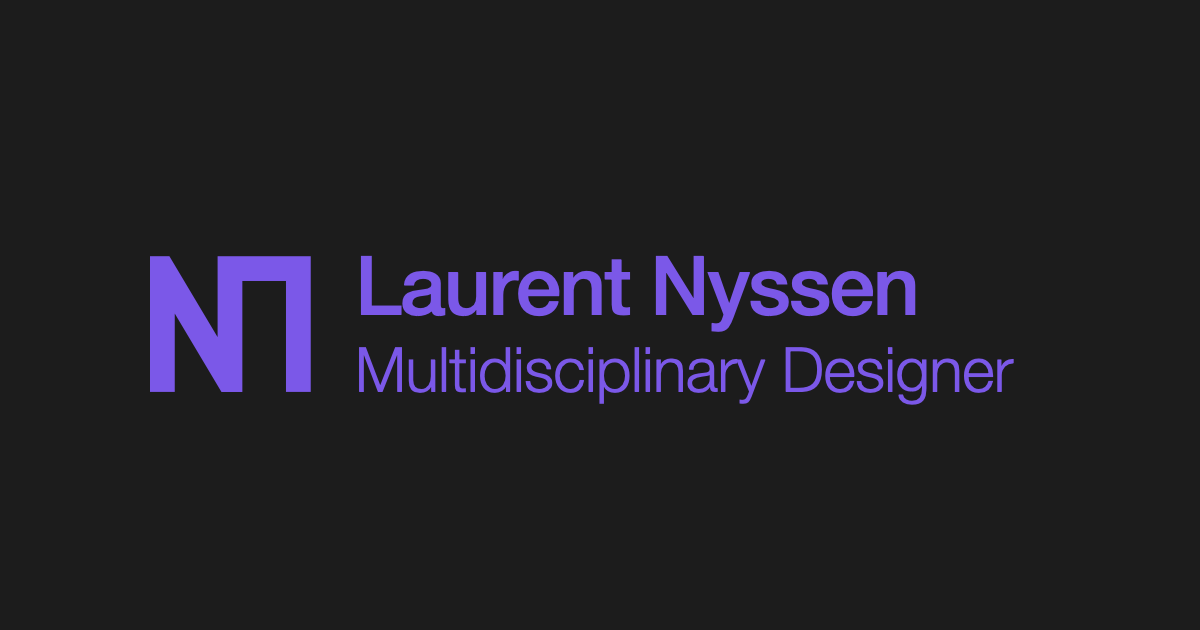
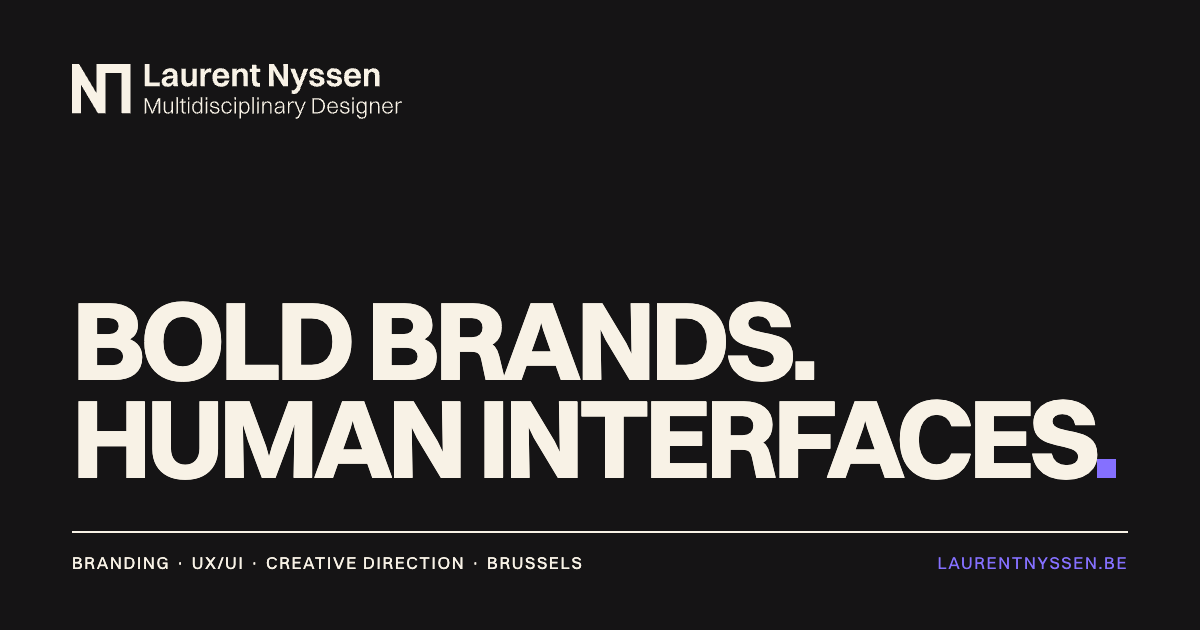
Open Graph : nouvelle image de partage
Noir mat, ivoire et violet, logo, « Bold brands. Human interfaces. »,
services et adresse. Source dans docs/og/og.html ; ?v=2 pour que les
réseaux relisent l'image.

diff --git a/docs/og/og.html b/docs/og/og.html
@@ -1,0 +1,83 @@
+<!DOCTYPE html>
+<html lang="en">
+<head>
+<meta charset="utf-8">
+<title>Open Graph — laurentnyssen.be</title>
+<!-- Source de public/og.png (1200 × 630). Régénérer depuis la racine du projet :
+  "/Applications/Google Chrome.app/Contents/MacOS/Google Chrome" --headless=new \
+    --hide-scrollbars --window-size=1200,630 --virtual-time-budget=4000 \
+    --screenshot=public/og.png docs/og/og.html -->
+<style>
+  @font-face { font-family: "Switzer"; src: url("../../public/fonts/switzer-variable.woff2") format("woff2"); font-weight: 100 900; }
+  * { box-sizing: border-box; margin: 0; padding: 0; }
+  html, body { width: 1200px; height: 630px; overflow: hidden; background: #151415; }
+  body { font-family: Switzer, "Helvetica Neue", Arial, sans-serif; color: #f8f2e6;
+    padding: 64px 72px 56px; display: flex; flex-direction: column; }
+  .logo { width: 330px; height: auto; color: #f8f2e6; }
+  h1 { margin-top: auto; font-size: 112px; line-height: 0.88; letter-spacing: -0.045em;
+    font-weight: 700; text-transform: uppercase; }
+  .point { display: inline-block; width: 0.17em; height: 0.17em; background: #8570ff; margin-left: 0.02em; }
+  .pied { margin-top: 44px; border-top: 2px solid #f8f2e6; padding-top: 18px; display: flex;
+    justify-content: space-between; font-size: 17px; letter-spacing: 0.1em; text-transform: uppercase; }
+  .pied span:last-child { color: #8570ff; }
+</style>
+</head>
+<body>
+  <svg
+  xmlns="http://www.w3.org/2000/svg"
+  viewBox="0 0 961.71 159.6"
+  fill="currentColor"
+  role="img"
+  aria-label="Laurent Nyssen, Multidisciplinary Designer"
+  class="logo"
+>
+  <g>
+    <g>
+      <polygon class="logo-mark" points="75.71 143.85 97.84 143.85 97.84 26.25 144.06 26.25 144.06 143.76 170.28 143.76 170.28 .02 71.61 .02 71.61 85.71 20.55 0 0 0 0 143.76 26.23 143.76 26.23 60.77 75.71 143.85"/>
+      <g>
+        <path d="M212.22,65.01V0h13.39v65.01h-13.39ZM221.97,65.01v-10.8h33.46v10.8h-33.46Z"/>
+        <path d="M296.54,33.75v7.84c-4.59,0-8.35.22-11.28.67-2.93.45-5.21,1.1-6.84,1.96-1.63.86-2.77,1.86-3.44,3.01-.67,1.15-1,2.39-1,3.73,0,1.91.72,3.43,2.15,4.54,1.43,1.12,3.33,1.67,5.69,1.67s4.64-.59,6.64-1.77c2.01-1.18,3.59-2.8,4.73-4.88,1.15-2.07,1.72-4.35,1.72-6.84h4.69c-.26,4.08-1.04,7.57-2.34,10.47-1.31,2.9-2.96,5.24-4.97,7.03-2.01,1.79-4.21,3.11-6.6,3.97-2.39.86-4.83,1.29-7.31,1.29-3.31,0-6.26-.54-8.84-1.63-2.58-1.08-4.62-2.74-6.12-4.97-1.5-2.23-2.25-4.97-2.25-8.22,0-3.51.99-6.53,2.96-9.08,1.97-2.55,4.97-4.49,8.99-5.83,3.57-1.21,7.2-2.01,10.9-2.39,3.7-.38,7.87-.57,12.53-.57ZM275.7,30.6h-12.72c.57-3.82,1.85-7.11,3.82-9.85,1.98-2.74,4.59-4.84,7.84-6.31,3.25-1.47,7.01-2.2,11.28-2.2,4.84,0,8.86.88,12.05,2.63,3.19,1.75,5.59,4.14,7.22,7.17,1.63,3.03,2.44,6.55,2.44,10.56v19.79c0,3.19.14,5.75.43,7.7.29,1.94.68,3.58,1.2,4.92h-13.29c-.45-1.27-.73-2.88-.86-4.83-.13-1.94-.19-3.93-.19-5.97v-21.61c0-3.25-.8-5.7-2.39-7.36-1.59-1.66-4.02-2.49-7.27-2.49-2.87,0-5.07.72-6.6,2.15-1.53,1.43-2.52,3.33-2.96,5.69Z"/>
+        <path d="M350.85,43.41h3.92c-.26,5.23-1.23,9.55-2.92,12.96-1.69,3.41-3.89,5.94-6.6,7.6-2.71,1.66-5.78,2.49-9.23,2.49s-6.26-.69-8.84-2.06c-2.58-1.37-4.59-3.43-6.02-6.17-1.43-2.74-2.15-6.18-2.15-10.33V13.77h12.72v31.55c0,2.3.32,4.24.96,5.83.64,1.59,1.59,2.81,2.87,3.63,1.27.83,2.9,1.24,4.88,1.24,1.59,0,3.03-.33,4.3-1,1.27-.67,2.37-1.58,3.3-2.72.92-1.15,1.63-2.49,2.1-4.02.48-1.53.72-3.15.72-4.88ZM363.56,13.77v51.25h-12.72V13.77h12.72Z"/>
+        <path d="M374.46,65.01V13.77h12.72v51.25h-12.72ZM387.18,37.86h-3.82c.25-6.06,1.23-10.96,2.92-14.72,1.69-3.76,3.84-6.52,6.45-8.27,2.61-1.75,5.42-2.63,8.41-2.63,1.08,0,2.07.13,2.96.38.89.26,1.56.64,2.01,1.15v10.9c-.77-.19-1.61-.33-2.53-.43-.93-.09-1.93-.14-3.01-.14-2.36,0-4.37.32-6.02.96-1.66.64-3.03,1.56-4.11,2.77-1.08,1.21-1.9,2.66-2.44,4.35-.54,1.69-.81,3.59-.81,5.69Z"/>
+        <path d="M452.67,34.13l-7.27,5.07c0-5.35-1-9.46-3.01-12.33-2.01-2.87-4.86-4.3-8.56-4.3s-6.72,1.45-8.7,4.35c-1.98,2.9-2.96,7.06-2.96,12.48s1.05,9.56,3.16,12.43c2.1,2.87,5.1,4.3,8.99,4.3,2.8,0,5.13-.64,6.98-1.91,1.85-1.27,3.19-3.28,4.02-6.02h13.29c-1.34,5.93-4.19,10.45-8.56,13.58-4.37,3.12-9.61,4.69-15.73,4.69-5.16,0-9.64-1.08-13.43-3.25-3.79-2.17-6.69-5.27-8.7-9.32-2.01-4.05-3.01-8.88-3.01-14.49s1-10.71,3.01-14.72c2.01-4.02,4.88-7.09,8.6-9.23,3.73-2.14,8.08-3.2,13.05-3.2s9.29,1.08,12.96,3.25c3.66,2.17,6.48,5.24,8.46,9.23,1.97,3.98,2.96,8.75,2.96,14.29v2.96h-43.79v-7.84h38.24Z"/>
+        <path d="M467.1,65.01V13.77h12.72v51.25h-12.72ZM479.82,35.28h-3.92c.32-5.23,1.31-9.53,2.96-12.91,1.66-3.38,3.87-5.91,6.64-7.6,2.77-1.69,5.94-2.53,9.51-2.53,3.38,0,6.36.69,8.94,2.06,2.58,1.37,4.6,3.43,6.07,6.17,1.46,2.74,2.2,6.18,2.2,10.33v34.23h-12.72v-31.65c0-2.29-.32-4.22-.96-5.78-.64-1.56-1.61-2.77-2.92-3.63-1.31-.86-2.98-1.29-5.02-1.29-1.66,0-3.15.33-4.49,1s-2.47,1.59-3.39,2.77c-.92,1.18-1.64,2.53-2.15,4.06-.51,1.53-.77,3.12-.77,4.78Z"/>
+        <path d="M518.35,23.52v-9.75h29.93v9.75h-29.93ZM524.85,48.95V1.91h12.72v45.7c0,2.68.53,4.7,1.58,6.07,1.05,1.37,3.23,2.06,6.55,2.06h2.49v9.47c-.7.38-1.74.68-3.11.91-1.37.22-2.92.33-4.64.33-5.29,0-9.21-1.48-11.76-4.45-2.55-2.96-3.82-7.31-3.82-13.05Z"/>
+        <path d="M574.47,65.01V0h12.52l.86,65.01h-13.39ZM615.3,65.01l-23.42-37.57-13.67-27.44h10.33l23.42,37.67,13.67,27.34h-10.33ZM616.83,65.01l-.86-65.01h13.39v65.01h-12.53Z"/>
+        <path d="M646.75,87.48c-1.34,0-2.61-.14-3.82-.43-1.21-.29-2.1-.53-2.68-.72v-9.75h2.87c1.34,0,2.53-.11,3.58-.33,1.05-.22,2.04-.69,2.96-1.39.92-.7,1.82-1.77,2.68-3.2.86-1.43,1.77-3.33,2.72-5.69l1.24-3.06-20.17-49.14h13.58l11.09,29.26,2.68,9.75h-1.34l2.87-9.75,10.61-29.26h12.91l-22.37,56.12c-1.34,3.38-2.68,6.2-4.02,8.46-1.34,2.26-2.74,4.06-4.21,5.4-1.47,1.34-3.11,2.29-4.92,2.87-1.82.57-3.91.86-6.26.86Z"/>
+        <path d="M703.93,27.63c0,1.59.57,2.84,1.72,3.73,1.15.89,2.68,1.58,4.59,2.06,1.91.48,4.03.89,6.36,1.24,2.33.35,4.62.8,6.88,1.34,2.26.54,4.35,1.34,6.26,2.39s3.44,2.47,4.59,4.26c1.15,1.79,1.72,4.18,1.72,7.17,0,3.25-.93,6.14-2.77,8.65-1.85,2.52-4.43,4.48-7.74,5.88-3.32,1.4-7.14,2.1-11.47,2.1-6.31,0-11.6-1.48-15.87-4.45-4.27-2.96-6.88-7.57-7.84-13.81h12.81c.38,2.74,1.59,4.84,3.63,6.31,2.04,1.47,4.59,2.2,7.65,2.2s5.15-.57,6.65-1.72c1.5-1.15,2.25-2.61,2.25-4.4,0-1.59-.56-2.82-1.67-3.68-1.12-.86-2.63-1.51-4.54-1.96-1.91-.45-3.98-.86-6.21-1.24-2.23-.38-4.46-.84-6.69-1.39-2.23-.54-4.29-1.34-6.17-2.39-1.88-1.05-3.39-2.5-4.54-4.35-1.15-1.85-1.72-4.24-1.72-7.17s.73-5.43,2.2-7.89c1.46-2.45,3.68-4.45,6.64-5.98,2.96-1.53,6.71-2.29,11.23-2.29,3.95,0,7.52.64,10.71,1.91,3.19,1.28,5.8,3.27,7.84,5.97,2.04,2.71,3.31,6.2,3.82,10.47h-12.72c-.51-3-1.63-5.16-3.35-6.5s-3.98-2.01-6.79-2.01c-2.29,0-4.11.53-5.45,1.58-1.34,1.05-2.01,2.38-2.01,3.97Z"/>
+        <path d="M754.98,27.63c0,1.59.57,2.84,1.72,3.73,1.15.89,2.68,1.58,4.59,2.06,1.91.48,4.03.89,6.36,1.24,2.33.35,4.62.8,6.88,1.34,2.26.54,4.35,1.34,6.26,2.39s3.44,2.47,4.59,4.26c1.15,1.79,1.72,4.18,1.72,7.17,0,3.25-.93,6.14-2.77,8.65-1.85,2.52-4.43,4.48-7.74,5.88-3.32,1.4-7.14,2.1-11.47,2.1-6.31,0-11.6-1.48-15.87-4.45-4.27-2.96-6.88-7.57-7.84-13.81h12.81c.38,2.74,1.59,4.84,3.63,6.31,2.04,1.47,4.59,2.2,7.65,2.2s5.15-.57,6.65-1.72c1.5-1.15,2.25-2.61,2.25-4.4,0-1.59-.56-2.82-1.67-3.68-1.12-.86-2.63-1.51-4.54-1.96-1.91-.45-3.98-.86-6.21-1.24-2.23-.38-4.46-.84-6.69-1.39-2.23-.54-4.29-1.34-6.17-2.39-1.88-1.05-3.39-2.5-4.54-4.35-1.15-1.85-1.72-4.24-1.72-7.17s.73-5.43,2.2-7.89c1.46-2.45,3.68-4.45,6.64-5.98,2.96-1.53,6.71-2.29,11.23-2.29,3.95,0,7.52.64,10.71,1.91,3.19,1.28,5.8,3.27,7.84,5.97,2.04,2.71,3.31,6.2,3.82,10.47h-12.72c-.51-3-1.63-5.16-3.35-6.5s-3.98-2.01-6.79-2.01c-2.29,0-4.11.53-5.45,1.58-1.34,1.05-2.01,2.38-2.01,3.97Z"/>
+        <path d="M836.44,34.13l-7.27,5.07c0-5.35-1-9.46-3.01-12.33-2.01-2.87-4.86-4.3-8.56-4.3s-6.72,1.45-8.7,4.35c-1.98,2.9-2.96,7.06-2.96,12.48s1.05,9.56,3.16,12.43c2.1,2.87,5.1,4.3,8.99,4.3,2.8,0,5.13-.64,6.98-1.91,1.85-1.27,3.19-3.28,4.02-6.02h13.29c-1.34,5.93-4.19,10.45-8.56,13.58-4.37,3.12-9.61,4.69-15.73,4.69-5.16,0-9.64-1.08-13.43-3.25-3.79-2.17-6.69-5.27-8.7-9.32-2.01-4.05-3.01-8.88-3.01-14.49s1-10.71,3.01-14.72c2.01-4.02,4.88-7.09,8.6-9.23,3.73-2.14,8.08-3.2,13.05-3.2s9.29,1.08,12.96,3.25c3.66,2.17,6.48,5.24,8.46,9.23,1.97,3.98,2.96,8.75,2.96,14.29v2.96h-43.79v-7.84h38.24Z"/>
+        <path d="M850.88,65.01V13.77h12.72v51.25h-12.72ZM863.59,35.28h-3.92c.32-5.23,1.31-9.53,2.96-12.91,1.66-3.38,3.87-5.91,6.64-7.6,2.77-1.69,5.94-2.53,9.51-2.53,3.38,0,6.36.69,8.94,2.06,2.58,1.37,4.6,3.43,6.07,6.17,1.46,2.74,2.2,6.18,2.2,10.33v34.23h-12.72v-31.65c0-2.29-.32-4.22-.96-5.78-.64-1.56-1.61-2.77-2.92-3.63-1.31-.86-2.98-1.29-5.02-1.29-1.66,0-3.15.33-4.49,1s-2.47,1.59-3.39,2.77c-.92,1.18-1.64,2.53-2.15,4.06-.51,1.53-.77,3.12-.77,4.78Z"/>
+      </g>
+      <path d="M211.7,144.31v-44.81h4.42v44.81h-4.42ZM235.82,144.31h-3.23l-13.31-31.11-5.14-13.71h3.76l15.09,35.26,1.71,4.81h-.72l1.71-4.81,15.09-35.26h3.49l-5.14,13.71-13.31,31.11ZM252.36,144.31v-44.81h4.42v44.81h-4.42Z"/>
+      <path d="M290.06,130.27h2.11c-.18,3.21-.86,5.9-2.04,8.07s-2.75,3.83-4.68,4.98c-1.93,1.14-4.13,1.71-6.59,1.71s-4.42-.47-6.13-1.42c-1.71-.94-3.02-2.33-3.92-4.15-.9-1.82-1.35-4.05-1.35-6.69v-23.33h4.28v22.47c0,1.85.29,3.48.86,4.91.57,1.43,1.47,2.54,2.7,3.33,1.23.79,2.81,1.19,4.74,1.19,1.58,0,3-.32,4.25-.96s2.29-1.5,3.13-2.6c.83-1.1,1.48-2.29,1.94-3.59.46-1.29.69-2.6.69-3.92ZM294.34,109.45v34.86h-4.28v-34.86h4.28Z"/>
+      <path d="M304.49,144.31v-47.45h4.28v47.45h-4.28Z"/>
+      <path d="M314.31,112.87v-3.43h17.33v3.43h-17.33ZM319.58,134.75v-33.35h4.28v33.35c0,2.29.45,3.97,1.35,5.04.9,1.08,2.67,1.62,5.3,1.62h1.05v3.1c-.26.13-.66.22-1.19.26s-1.1.07-1.71.07c-3.16,0-5.47-.81-6.92-2.44-1.45-1.62-2.17-4.17-2.17-7.64Z"/>
+      <path d="M337.7,104.37v-7.51h4.28v7.51h-4.28ZM337.7,144.31v-34.86h4.28v34.86h-4.28Z"/>
+      <path d="M364.66,145.03c-2.99,0-5.57-.72-7.74-2.17-2.17-1.45-3.83-3.53-4.98-6.23-1.14-2.7-1.71-5.94-1.71-9.72,0-5.89,1.3-10.39,3.89-13.51,2.59-3.12,6.11-4.68,10.54-4.68,4.09,0,7.31,1.57,9.69,4.71,2.37,3.14,3.56,7.63,3.56,13.48,0,3.73-.54,6.96-1.62,9.69-1.08,2.72-2.6,4.81-4.58,6.26-1.98,1.45-4.33,2.17-7.05,2.17ZM364.92,141.34c3.38,0,5.95-1.24,7.71-3.72,1.76-2.48,2.64-6.05,2.64-10.71s-.9-8.18-2.7-10.71c-1.8-2.53-4.35-3.79-7.64-3.79s-5.9,1.25-7.68,3.76-2.67,6.09-2.67,10.74.91,8.12,2.74,10.64c1.82,2.53,4.36,3.79,7.61,3.79ZM375.27,144.31v-47.45h4.28v47.45h-4.28Z"/>
+      <path d="M389.7,104.37v-7.51h4.28v7.51h-4.28ZM389.7,144.31v-34.86h4.28v34.86h-4.28Z"/>
+      <path d="M406.77,118.28c0,1.58.42,2.79,1.25,3.62.83.83,1.93,1.45,3.29,1.85,1.36.39,2.87.7,4.51.92,1.65.22,3.28.49,4.91.82,1.62.33,3.12.8,4.48,1.42s2.46,1.53,3.3,2.73c.83,1.21,1.25,2.85,1.25,4.91s-.57,4.02-1.71,5.6c-1.14,1.58-2.72,2.79-4.74,3.62-2.02.83-4.33,1.25-6.92,1.25-4.04,0-7.38-1-10.02-3-2.64-2-4.28-5.02-4.94-9.06h4.28c.44,2.77,1.6,4.9,3.49,6.39,1.89,1.49,4.33,2.24,7.32,2.24s5.12-.64,6.66-1.91c1.54-1.27,2.31-2.88,2.31-4.81,0-1.58-.42-2.79-1.25-3.62-.83-.83-1.92-1.45-3.26-1.84-1.34-.4-2.82-.71-4.45-.96-1.63-.24-3.25-.53-4.88-.86-1.63-.33-3.11-.8-4.45-1.42-1.34-.61-2.43-1.53-3.26-2.73-.83-1.21-1.25-2.82-1.25-4.84,0-1.8.44-3.44,1.32-4.91.88-1.47,2.23-2.67,4.05-3.59,1.82-.92,4.1-1.38,6.82-1.38,2.42,0,4.59.42,6.52,1.25,1.93.83,3.53,2.14,4.78,3.92s2.03,4.08,2.34,6.89h-4.28c-.44-3.08-1.49-5.27-3.16-6.59-1.67-1.32-3.82-1.98-6.46-1.98s-4.44.57-5.8,1.71c-1.36,1.14-2.04,2.59-2.04,4.35Z"/>
+      <path d="M465.35,121.24h-4.28c-.53-2.9-1.7-5.1-3.53-6.59-1.82-1.49-4.05-2.24-6.69-2.24-3.56,0-6.28,1.25-8.17,3.76-1.89,2.5-2.83,6.09-2.83,10.74s.98,8.17,2.93,10.68c1.95,2.5,4.71,3.76,8.27,3.76,2.64,0,4.85-.71,6.66-2.14,1.8-1.43,3.01-3.57,3.62-6.42h4.28c-.84,4.31-2.56,7.42-5.17,9.36-2.61,1.93-5.79,2.9-9.52,2.9-3.21,0-5.96-.72-8.27-2.17-2.31-1.45-4.08-3.53-5.3-6.23-1.23-2.7-1.85-5.94-1.85-9.72s.62-7.27,1.85-9.95c1.23-2.68,3-4.72,5.3-6.13,2.31-1.41,5.04-2.11,8.21-2.11,2.55,0,4.83.47,6.85,1.42,2.02.95,3.7,2.35,5.04,4.22,1.34,1.87,2.21,4.16,2.6,6.89Z"/>
+      <path d="M473.59,104.37v-7.51h4.28v7.51h-4.28ZM473.59,144.31v-34.86h4.28v34.86h-4.28Z"/>
+      <path d="M492.3,158.81h-4.22v-49.36h4.22v49.36ZM502.98,108.72c3.03,0,5.62.71,7.78,2.14,2.15,1.43,3.8,3.49,4.94,6.19,1.14,2.7,1.71,5.94,1.71,9.72,0,5.93-1.3,10.46-3.89,13.58-2.59,3.12-6.11,4.68-10.54,4.68-4.09,0-7.32-1.57-9.69-4.71-2.37-3.14-3.56-7.63-3.56-13.48,0-3.73.54-6.95,1.61-9.65,1.08-2.7,2.61-4.79,4.61-6.26,2-1.47,4.34-2.21,7.02-2.21ZM502.72,112.41c-3.38,0-5.96,1.23-7.74,3.69-1.78,2.46-2.67,6.04-2.67,10.74s.91,8.13,2.74,10.68c1.82,2.55,4.38,3.82,7.68,3.82s5.89-1.25,7.64-3.76c1.76-2.5,2.64-6.11,2.64-10.81s-.9-8.05-2.7-10.58c-1.8-2.53-4.33-3.79-7.58-3.79Z"/>
+      <path d="M525.65,144.31v-47.45h4.28v47.45h-4.28Z"/>
+      <path d="M540.08,104.37v-7.51h4.28v7.51h-4.28ZM540.08,144.31v-34.86h4.28v34.86h-4.28Z"/>
+      <path d="M554.51,144.31v-34.86h4.28v34.86h-4.28ZM558.8,123.48h-2.17c.22-3.16.92-5.84,2.11-8.04,1.19-2.2,2.76-3.87,4.71-5.01,1.95-1.14,4.18-1.71,6.69-1.71s4.61.47,6.33,1.42c1.71.95,3.02,2.33,3.92,4.15.9,1.82,1.35,4.05,1.35,6.69v23.33h-4.22v-22.41c0-1.89-.31-3.55-.92-4.98-.62-1.43-1.54-2.55-2.77-3.36-1.23-.81-2.83-1.22-4.81-1.22-1.63,0-3.08.33-4.35.99s-2.34,1.53-3.2,2.6c-.86,1.08-1.52,2.27-1.98,3.59-.46,1.32-.69,2.64-.69,3.95Z"/>
+      <path d="M615.34,123.55v3.23c-4.31,0-7.82.2-10.54.59-2.72.4-4.83.97-6.33,1.71-1.49.75-2.53,1.62-3.1,2.64-.57,1.01-.86,2.11-.86,3.29,0,1.98.73,3.53,2.17,4.65,1.45,1.12,3.36,1.68,5.73,1.68s4.35-.56,6.2-1.68c1.84-1.12,3.3-2.6,4.38-4.45,1.08-1.84,1.62-3.84,1.62-6h2.37c-.18,2.77-.75,5.16-1.71,7.18-.97,2.02-2.19,3.66-3.66,4.91-1.47,1.25-3.03,2.19-4.68,2.8-1.65.61-3.29.92-4.91.92-2.42,0-4.51-.37-6.29-1.12-1.78-.75-3.15-1.86-4.12-3.33-.97-1.47-1.45-3.28-1.45-5.44,0-2.37.64-4.35,1.91-5.93,1.27-1.58,3.16-2.79,5.67-3.62,2.46-.83,5.05-1.38,7.78-1.65,2.72-.26,6-.4,9.82-.4ZM595.64,120.78h-4.28c.4-2.55,1.17-4.72,2.34-6.52,1.16-1.8,2.75-3.17,4.75-4.12,2-.94,4.4-1.42,7.22-1.42,2.99,0,5.46.55,7.41,1.65,1.95,1.1,3.42,2.66,4.38,4.68.97,2.02,1.45,4.39,1.45,7.12v13.97c0,1.93.1,3.55.3,4.84.2,1.3.54,2.41,1.02,3.33h-4.55c-.48-.88-.78-1.98-.89-3.29-.11-1.32-.16-2.59-.16-3.82v-14.83c0-3.21-.75-5.67-2.24-7.38-1.49-1.71-3.87-2.57-7.12-2.57-2.9,0-5.13.75-6.69,2.24-1.56,1.49-2.54,3.54-2.93,6.13Z"/>
+      <path d="M629.24,144.31v-34.86h4.28v34.86h-4.28ZM633.53,124.27h-2.04c.22-3.47.92-6.36,2.11-8.67,1.19-2.31,2.7-4.03,4.55-5.17,1.85-1.14,3.89-1.71,6.13-1.71.66,0,1.27.07,1.85.2.57.13,1.01.31,1.32.53v3.89c-.44-.17-.97-.31-1.58-.4-.62-.09-1.23-.13-1.85-.13-1.8,0-3.35.31-4.65.92-1.3.62-2.38,1.46-3.26,2.54-.88,1.08-1.53,2.3-1.94,3.66-.42,1.36-.63,2.81-.63,4.35Z"/>
+      <path d="M653.82,159.4c-.53,0-1.03-.04-1.52-.13-.48-.09-.88-.18-1.19-.26v-3.3h1.52c1.1,0,2.02-.09,2.77-.26.75-.18,1.43-.55,2.04-1.12.61-.57,1.25-1.47,1.91-2.7.66-1.23,1.43-2.88,2.31-4.94l1.38-3.29-14.24-33.94h4.68l10.08,24.65,2.04,5.73h-.66l2.04-5.73,9.82-24.65h4.42l-16.21,39.54c-.88,2.11-1.69,3.84-2.44,5.21-.75,1.36-1.52,2.43-2.31,3.2s-1.7,1.3-2.73,1.58c-1.03.29-2.27.43-3.72.43Z"/>
+      <path d="M701.01,144.31v-44.81h4.42v44.81h-4.42ZM714.65,140.68c3.73,0,6.94-.75,9.62-2.24,2.68-1.49,4.73-3.63,6.16-6.42,1.43-2.79,2.14-6.14,2.14-10.05s-.71-7.39-2.14-10.18c-1.43-2.79-3.48-4.93-6.16-6.42-2.68-1.49-5.89-2.24-9.62-2.24h-10.54v-3.62h10.54c4.66,0,8.65.9,11.99,2.7,3.34,1.8,5.93,4.37,7.78,7.71,1.84,3.34,2.77,7.36,2.77,12.06s-.92,8.66-2.77,11.99c-1.85,3.34-4.44,5.9-7.78,7.68-3.34,1.78-7.34,2.67-11.99,2.67h-10.54v-3.62h10.54Z"/>
+      <path d="M772.97,124.27l-2.37,2.31c0-4.48-.97-7.96-2.9-10.45-1.93-2.48-4.64-3.72-8.11-3.72s-6.29,1.25-8.21,3.76-2.87,6.09-2.87,10.74,1,8.12,3,10.64c2,2.53,4.8,3.79,8.4,3.79,2.77,0,5.08-.7,6.95-2.11,1.87-1.41,3.15-3.49,3.86-6.26h4.42c-.97,4.09-2.79,7.12-5.47,9.09-2.68,1.98-5.93,2.96-9.75,2.96-3.29,0-6.12-.72-8.47-2.17-2.35-1.45-4.15-3.53-5.4-6.23-1.25-2.7-1.88-5.94-1.88-9.72s.63-7.27,1.88-9.95c1.25-2.68,3.03-4.72,5.34-6.13,2.31-1.41,5.04-2.11,8.21-2.11s5.95.71,8.24,2.14,4.04,3.45,5.27,6.06c1.23,2.61,1.84,5.77,1.84,9.46v1.19h-28.93v-3.29h26.95Z"/>
+      <path d="M786.08,118.28c0,1.58.42,2.79,1.25,3.62.83.83,1.93,1.45,3.29,1.85,1.36.39,2.87.7,4.51.92,1.65.22,3.28.49,4.91.82,1.62.33,3.12.8,4.48,1.42s2.46,1.53,3.3,2.73c.83,1.21,1.25,2.85,1.25,4.91s-.57,4.02-1.71,5.6c-1.14,1.58-2.72,2.79-4.74,3.62-2.02.83-4.33,1.25-6.92,1.25-4.04,0-7.38-1-10.02-3-2.64-2-4.28-5.02-4.94-9.06h4.28c.44,2.77,1.6,4.9,3.49,6.39,1.89,1.49,4.33,2.24,7.32,2.24s5.12-.64,6.66-1.91c1.54-1.27,2.31-2.88,2.31-4.81,0-1.58-.42-2.79-1.25-3.62-.83-.83-1.92-1.45-3.26-1.84-1.34-.4-2.82-.71-4.45-.96-1.63-.24-3.25-.53-4.88-.86-1.63-.33-3.11-.8-4.45-1.42-1.34-.61-2.43-1.53-3.26-2.73-.83-1.21-1.25-2.82-1.25-4.84,0-1.8.44-3.44,1.32-4.91.88-1.47,2.23-2.67,4.05-3.59,1.82-.92,4.1-1.38,6.82-1.38,2.42,0,4.59.42,6.52,1.25,1.93.83,3.53,2.14,4.78,3.92s2.03,4.08,2.34,6.89h-4.28c-.44-3.08-1.49-5.27-3.16-6.59-1.67-1.32-3.82-1.98-6.46-1.98s-4.44.57-5.8,1.71c-1.36,1.14-2.04,2.59-2.04,4.35Z"/>
+      <path d="M816.73,104.37v-7.51h4.28v7.51h-4.28ZM816.73,144.31v-34.86h4.28v34.86h-4.28Z"/>
+      <path d="M843.22,144.64c-2.9,0-5.39-.71-7.48-2.14-2.09-1.43-3.69-3.48-4.81-6.16s-1.68-5.89-1.68-9.62c0-5.84,1.24-10.3,3.72-13.38,2.48-3.07,5.9-4.61,10.25-4.61,4.57,0,8,1.57,10.28,4.71,2.28,3.14,3.43,7.54,3.43,13.21s-1.23,10.36-3.69,13.41c-2.46,3.05-5.8,4.58-10.02,4.58ZM858.57,145.56c0,3.25-.6,5.91-1.81,7.97-1.21,2.06-2.84,3.59-4.91,4.58-2.07.99-4.39,1.48-6.99,1.48-4,0-7.29-.98-9.88-2.93-2.59-1.96-4.2-4.87-4.81-8.73h4.28c.4,2.59,1.53,4.59,3.39,6,1.87,1.41,4.21,2.11,7.02,2.11s5.25-.83,6.92-2.5c1.67-1.67,2.5-4.28,2.5-7.84v-36.25h4.28v36.11ZM843.94,140.95c3.38,0,5.95-1.23,7.71-3.69,1.76-2.46,2.64-6,2.64-10.61s-.9-7.97-2.7-10.48c-1.8-2.5-4.35-3.76-7.64-3.76s-5.9,1.23-7.68,3.69c-1.78,2.46-2.67,6-2.67,10.61s.9,8.03,2.7,10.51c1.8,2.48,4.35,3.72,7.64,3.72Z"/>
+      <path d="M868.79,144.31v-34.86h4.28v34.86h-4.28ZM873.07,123.48h-2.17c.22-3.16.92-5.84,2.11-8.04,1.19-2.2,2.76-3.87,4.71-5.01,1.95-1.14,4.18-1.71,6.69-1.71s4.61.47,6.33,1.42c1.71.95,3.02,2.33,3.92,4.15.9,1.82,1.35,4.05,1.35,6.69v23.33h-4.22v-22.41c0-1.89-.31-3.55-.92-4.98-.62-1.43-1.54-2.55-2.77-3.36-1.23-.81-2.83-1.22-4.81-1.22-1.63,0-3.08.33-4.35.99s-2.34,1.53-3.2,2.6c-.86,1.08-1.52,2.27-1.98,3.59-.46,1.32-.69,2.64-.69,3.95Z"/>
+      <path d="M933.04,124.27l-2.37,2.31c0-4.48-.97-7.96-2.9-10.45-1.93-2.48-4.64-3.72-8.11-3.72s-6.29,1.25-8.21,3.76-2.87,6.09-2.87,10.74,1,8.12,3,10.64c2,2.53,4.8,3.79,8.4,3.79,2.77,0,5.08-.7,6.95-2.11,1.87-1.41,3.15-3.49,3.86-6.26h4.42c-.97,4.09-2.79,7.12-5.47,9.09-2.68,1.98-5.93,2.96-9.75,2.96-3.29,0-6.12-.72-8.47-2.17-2.35-1.45-4.15-3.53-5.4-6.23-1.25-2.7-1.88-5.94-1.88-9.72s.63-7.27,1.88-9.95c1.25-2.68,3.03-4.72,5.34-6.13,2.31-1.41,5.04-2.11,8.21-2.11s5.95.71,8.24,2.14,4.04,3.45,5.27,6.06c1.23,2.61,1.84,5.77,1.84,9.46v1.19h-28.93v-3.29h26.95Z"/>
+      <path d="M943.52,144.31v-34.86h4.28v34.86h-4.28ZM947.8,124.27h-2.04c.22-3.47.92-6.36,2.11-8.67,1.19-2.31,2.7-4.03,4.55-5.17,1.85-1.14,3.89-1.71,6.13-1.71.66,0,1.27.07,1.85.2.57.13,1.01.31,1.32.53v3.89c-.44-.17-.97-.31-1.58-.4-.62-.09-1.23-.13-1.85-.13-1.8,0-3.35.31-4.65.92-1.3.62-2.38,1.46-3.26,2.54-.88,1.08-1.53,2.3-1.94,3.66-.42,1.36-.63,2.81-.63,4.35Z"/>
+    </g>
+  </g>
+</svg>
+  <h1>Bold brands.<br>Human interfaces<span class="point"></span></h1>
+  <div class="pied"><span>Branding · UX/UI · Creative direction · Brussels</span><span>laurentnyssen.be</span></div>
+</body>
+</html>
